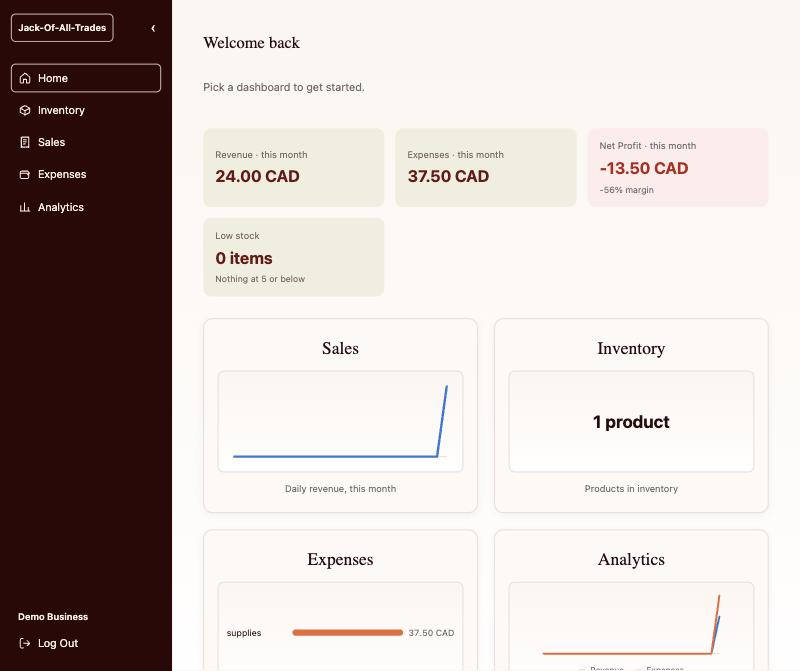
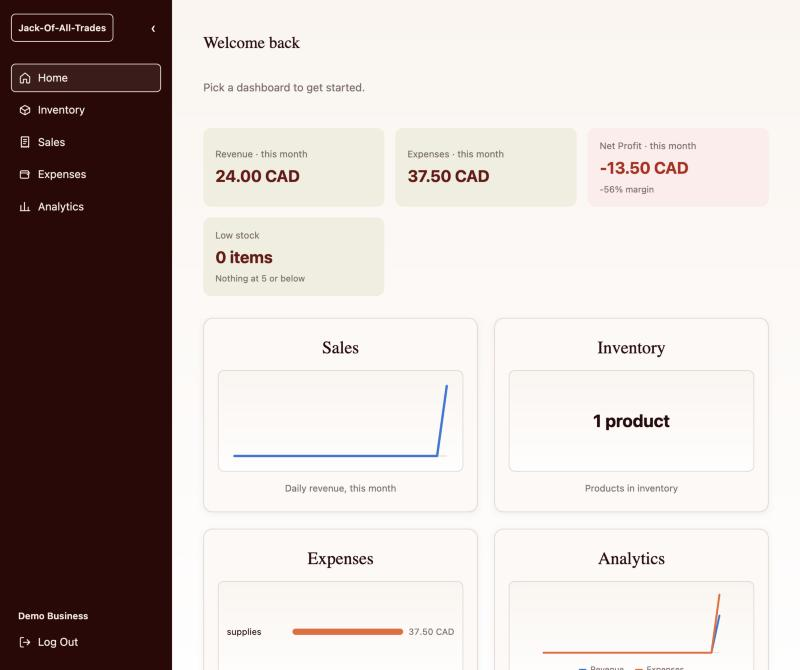
Show only the Java deployment in the README, refresh screenshots
Drop the Node URL from Deployed URL / Access Instructions per
request — only the Java site is meant to be shown off. Screenshots
are recaptured from the live site now that it's running the
accessibility-fix commit.

diff --git a/README.md b/README.md
@@ -300,19 +300,18 @@ SOFTWARE.
 
 ## Deployed URL / Access Instructions
 
-* **Java backend (primary, D2 demo):** https://jack-of-all-trades-java.onrender.com
-* **Node backend (fallback, not actively developed further):** https://one8-jack-of-all-trades.onrender.com
+**https://jack-of-all-trades-java.onrender.com**
 
-Both serve the same React app and the same login screen. Log in with:
+Log in with:
 
 ```
 email:    demo@jackofalltrades.test
 password: ChangeMe123!
 ```
 
-...or click "Register" on either site to create your own business account — every dashboard only ever shows your own business's data, on whichever backend you registered with (the two don't share accounts).
+...or click "Register" to create your own business account — every dashboard only ever shows your own business's data.
 
-Both run on Render's free tier, so an idle instance spins down and the first request after a while takes **30–60+ seconds** to wake back up — this is expected, not a bug; just wait for the login page to load.
+This runs on Render's free tier, so an idle instance spins down and the first request after a while takes **30–60+ seconds** to wake back up — this is expected, not a bug; just wait for the login page to load.
 
 ### Screenshots
 
